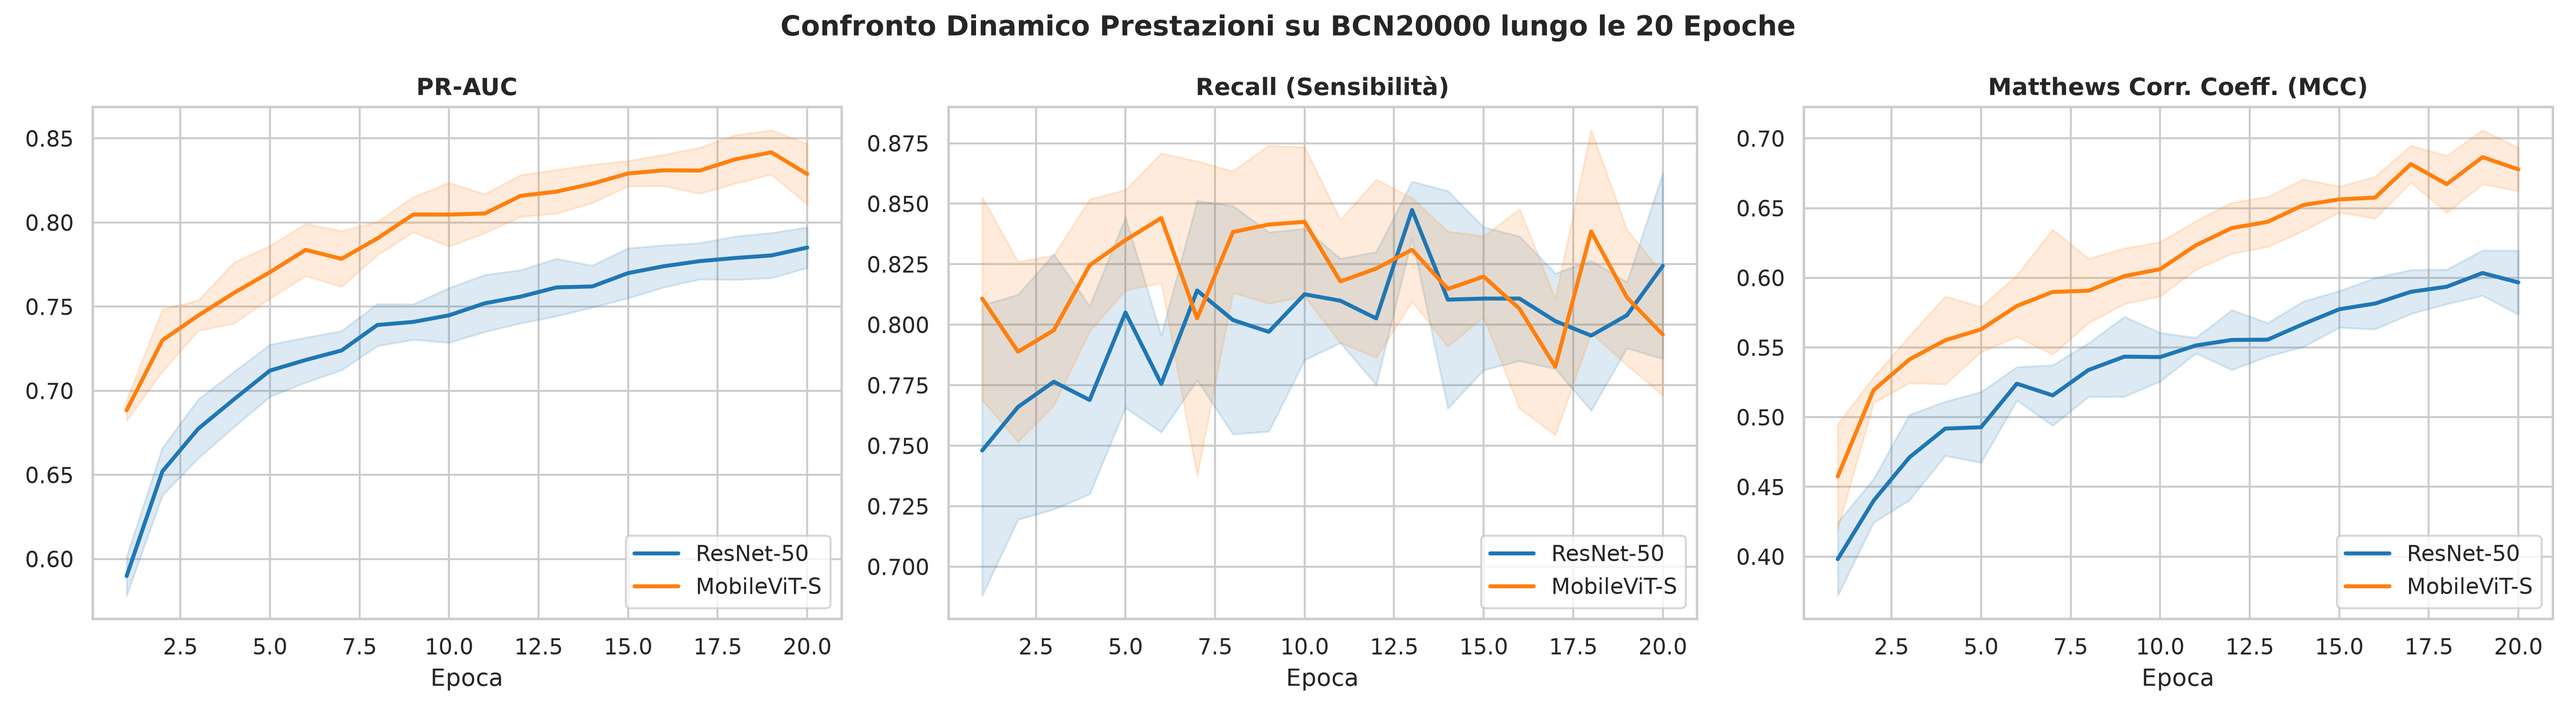
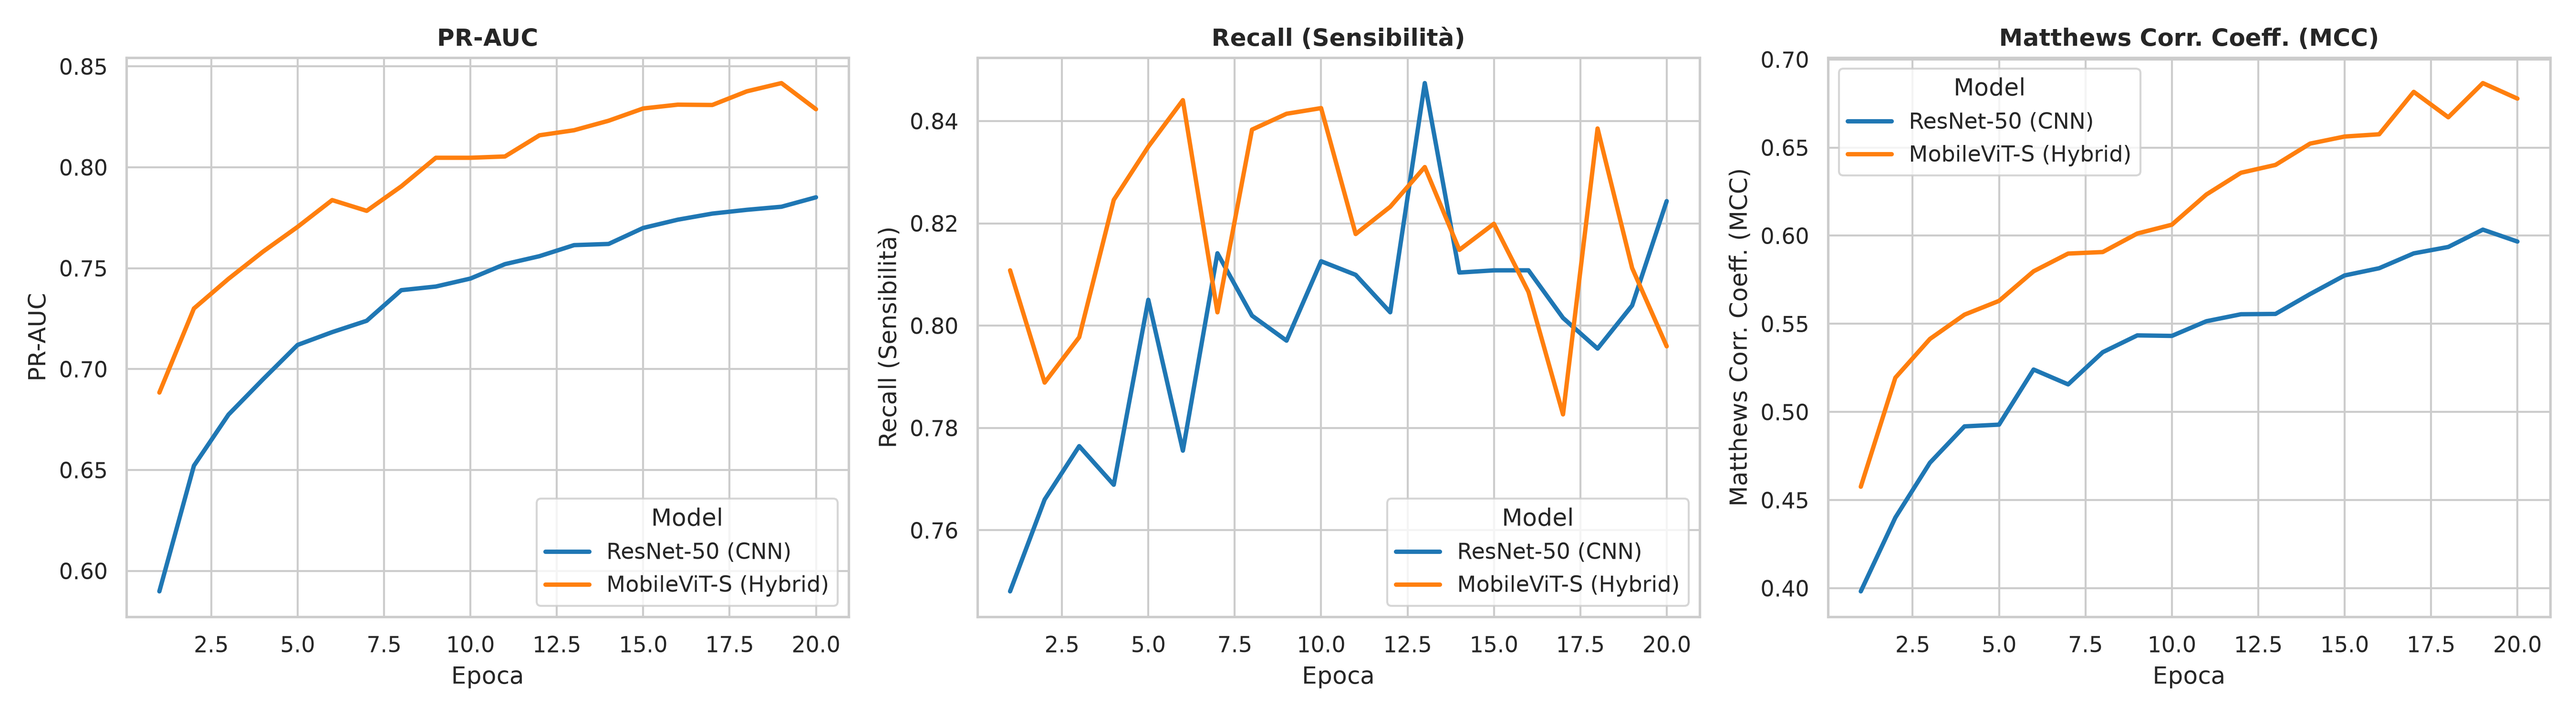
Allineamento salvataggio in figure/ e colori boxplot coerenti

Changed region(s): [[0.0, 0.0, 0.9956, 0.9813]]

diff --git a/plot_bcn_comparison.py b/plot_bcn_comparison.py
@@ -1,9 +1,10 @@
 import os
 import matplotlib.pyplot as plt
+import numpy as np
 import pandas as pd
 import seaborn as sns
 
-# Stile tipografico coerente con tesi magistrale / pubblicazione scientifica
+# Stile tipografico per tesi magistrale
 plt.rcParams.update({
     "font.size": 11,
     "axes.labelsize": 12,
@@ -11,49 +12,52 @@ plt.rcParams.update({
     "xtick.labelsize": 10,
     "ytick.labelsize": 10,
     "legend.fontsize": 10,
-    "figure.titlesize": 15,
+    "figure.titlesize": 14,
 })
 sns.set_theme(style="whitegrid")
 
-# 1. Caricamento dei file CSV estratti da Tesla
+# 1. Caricamento file metriche
 files = {
-    "CNN (ResNet-50)": "outputs/metrics_bcn_cnn.csv",
-    "Hybrid (MobileViT-S)": "outputs/metrics_bcn_hybrid.csv",
+    "ResNet-50 (CNN)": "outputs/metrics_bcn_cnn.csv",
+    "MobileViT-S (Hybrid)": "outputs/metrics_bcn_hybrid.csv",
 }
 
+# Blu per CNN, Arancione per Hybrid
 palette = {
-    "CNN (ResNet-50)": "#4C72B0",  # Blu istituzionale
-    "Hybrid (MobileViT-S)": "#C44E52",  # Rosso carminio / contrasto
+    "ResNet-50 (CNN)": "#1f77b4",
+    "MobileViT-S (Hybrid)": "#ff7f0e",
 }
+model_order = ["ResNet-50 (CNN)", "MobileViT-S (Hybrid)"]
 
 dfs = []
 for model_name, file_path in files.items():
-    if os.path.exists(file_path):
-        df_temp = pd.read_csv(file_path)
-        df_temp["Model"] = model_name
-        dfs.append(df_temp)
-    else:
-        print(f"[ATTENZIONE] File non trovato: {file_path}")
+  if os.path.exists(file_path):
+    df_temp = pd.read_csv(file_path)
+    df_temp["Model"] = model_name
+    dfs.append(df_temp)
+  else:
+    print(f"[ATTENZIONE] File non trovato: {file_path}")
 
 if not dfs:
-    raise FileNotFoundError(
-        "Nessun file CSV trovato. Assicurati di aver fatto 'git pull origin main'."
-    )
+  raise FileNotFoundError(
+      "Nessun file CSV trovato. Verifica il percorso in outputs/"
+  )
 
 df_all = pd.concat(dfs, ignore_index=True)
-os.makedirs("outputs/plots/bcn20000", exist_ok=True)
+out_dir = "figure"
+os.makedirs(out_dir, exist_ok=True)
 
 # -------------------------------------------------------------------------
 # GRAFICO 1: Curve di Loss (Training vs Validation)
 # -------------------------------------------------------------------------
 fig, axes = plt.subplots(1, 2, figsize=(14, 5), sharex=True)
 
-# Training Loss
 sns.lineplot(
     data=df_all,
     x="epoch",
     y="train_loss",
     hue="Model",
+    hue_order=model_order,
     palette=palette,
     ax=axes[0],
     errorbar="sd",
@@ -63,12 +67,12 @@ axes[0].set_title("Training Loss Media (BCN20000 - 5 Fold)")
 axes[0].set_xlabel("Epoca")
 axes[0].set_ylabel("Binary Cross-Entropy Loss")
 
-# Validation Loss
 sns.lineplot(
     data=df_all,
     x="epoch",
     y="val_loss",
     hue="Model",
+    hue_order=model_order,
     palette=palette,
     ax=axes[1],
     errorbar="sd",
@@ -79,58 +83,45 @@ axes[1].set_xlabel("Epoca")
 axes[1].set_ylabel("Binary Cross-Entropy Loss")
 
 plt.tight_layout()
-p1 = "outputs/plots/bcn20000/bcn_loss_comparison.png"
+p1 = os.path.join(out_dir, "bcn_loss_comparison.png")
 plt.savefig(p1, dpi=300)
 plt.close()
 print(f"[OK] Salvato: {p1}")
 
 # -------------------------------------------------------------------------
-# GRAFICO 2: Evoluzione Epoca per Epoca di PR-AUC e MCC
+# GRAFICO 2: Evoluzione Epocale di PR-AUC, Recall e MCC
 # -------------------------------------------------------------------------
-fig, axes = plt.subplots(1, 2, figsize=(14, 5), sharex=True)
+fig, axes = plt.subplots(1, 3, figsize=(18, 5), sharex=True)
+metrics_prog = [
+    ("pr_auc", "PR-AUC"),
+    ("recall", "Recall (Sensibilità)"),
+    ("mcc", "Matthews Corr. Coeff. (MCC)"),
+]
 
-# PR-AUC
-sns.lineplot(
-    data=df_all,
-    x="epoch",
-    y="pr_auc",
-    hue="Model",
-    palette=palette,
-    ax=axes[0],
-    errorbar=None,
-    linewidth=2.2,
-    marker="o",
-    markersize=4,
-)
-axes[0].set_title("Progressione PR-AUC (Precision-Recall AUC)")
-axes[0].set_xlabel("Epoca")
-axes[0].set_ylabel("PR-AUC")
-
-# MCC
-sns.lineplot(
-    data=df_all,
-    x="epoch",
-    y="mcc",
-    hue="Model",
-    palette=palette,
-    ax=axes[1],
-    errorbar=None,
-    linewidth=2.2,
-    marker="s",
-    markersize=4,
-)
-axes[1].set_title("Progressione Matthews Correlation Coefficient (MCC)")
-axes[1].set_xlabel("Epoca")
-axes[1].set_ylabel("MCC")
+for idx, (col, title) in enumerate(metrics_prog):
+  sns.lineplot(
+      data=df_all,
+      x="epoch",
+      y=col,
+      hue="Model",
+      hue_order=model_order,
+      palette=palette,
+      ax=axes[idx],
+      errorbar=None,
+      linewidth=2.2,
+  )
+  axes[idx].set_title(title, fontweight="bold")
+  axes[idx].set_xlabel("Epoca")
+  axes[idx].set_ylabel(title)
 
 plt.tight_layout()
-p2 = "outputs/plots/bcn20000/bcn_metrics_progression.png"
+p2 = os.path.join(out_dir, "bcn_metrics_progression.png")
 plt.savefig(p2, dpi=300)
 plt.close()
 print(f"[OK] Salvato: {p2}")
 
 # -------------------------------------------------------------------------
-# GRAFICO 3: Boxplot di Distribuzione delle Migliori Prestazioni sui Fold
+# GRAFICO 3: Boxplot sui 5 Fold (ResNet-50 Blu a Sx, MobileViT Arancione a Dx)
 # -------------------------------------------------------------------------
 best_per_fold = (
     df_all.sort_values(by=["Model", "fold", "pr_auc"], ascending=False)
@@ -139,95 +130,133 @@ best_per_fold = (
     .reset_index()
 )
 
-fig, axes = plt.subplots(1, 3, figsize=(16, 5))
-metrics_to_plot = [("pr_auc", "PR-AUC"), ("recall", "Recall"), ("mcc", "MCC")]
+fig, axes = plt.subplots(1, 3, figsize=(15, 5))
+metrics_to_plot = [
+    ("pr_auc", "PR-AUC"),
+    ("recall", "Recall (Sensibilità)"),
+    ("mcc", "Matthews Corr. Coeff. (MCC)"),
+]
 
 for ax, (col, title) in zip(axes, metrics_to_plot):
-    sns.boxplot(
-        data=best_per_fold,
-        x="Model",
-        y=col,
-        palette=palette,
-        ax=ax,
-        width=0.4,
-        showmeans=True,
-        meanprops={
-            "marker": "D",
-            "markerfacecolor": "white",
-            "markeredgecolor": "black",
-            "markersize": 6,
-        },
-    )
-    sns.stripplot(
-        data=best_per_fold,
-        x="Model",
-        y=col,
-        color="black",
-        alpha=0.6,
-        jitter=0.15,
-        size=7,
-        ax=ax,
-    )
-    ax.set_title(f"Distribuzione {title} sui Fold")
-    ax.set_xlabel("")
-    ax.set_ylabel(title)
+  sns.boxplot(
+      data=best_per_fold,
+      x="Model",
+      y=col,
+      order=model_order,
+      palette=palette,
+      ax=ax,
+      width=0.4,
+      showmeans=True,
+      meanprops={
+          "marker": "D",
+          "markerfacecolor": "white",
+          "markeredgecolor": "black",
+          "markersize": 6,
+      },
+  )
+  sns.stripplot(
+      data=best_per_fold,
+      x="Model",
+      y=col,
+      order=model_order,
+      color="black",
+      alpha=0.6,
+      jitter=0.15,
+      size=7,
+      ax=ax,
+  )
+  ax.set_title(f"Distribuzione {title}", fontweight="bold")
+  ax.set_xlabel("")
+  ax.set_ylabel(title)
 
+plt.suptitle(
+    "Variabilità e Robustezza sui 5 Fold (Migliori Pesi)",
+    fontsize=14,
+    fontweight="bold",
+)
 plt.tight_layout()
-p3 = "outputs/plots/bcn20000/bcn_boxplot_comparison.png"
+p3 = os.path.join(out_dir, "bcn_boxplot_comparison.png")
 plt.savefig(p3, dpi=300)
 plt.close()
 print(f"[OK] Salvato: {p3}")
 
 # -------------------------------------------------------------------------
-# GRAFICO 4: Sintesi a Barre delle Medie Globali
+# GRAFICO 4: Sintesi a Barre Globali con Barre di Errore
 # -------------------------------------------------------------------------
 summary = (
     best_per_fold.groupby("Model")[["pr_auc", "recall", "mcc"]]
-    .mean()
-    .reset_index()
-)
-summary_melted = pd.melt(
-    summary,
-    id_vars=["Model"],
-    value_vars=["pr_auc", "recall", "mcc"],
-    var_name="Metrica",
-    value_name="Punteggio",
-)
-summary_melted["Metrica"] = summary_melted["Metrica"].replace(
-    {"pr_auc": "PR-AUC", "recall": "Sensibilità (Recall)", "mcc": "MCC"}
+    .agg(["mean", "std"])
+    .reindex(model_order)
 )
 
-plt.figure(figsize=(9, 5))
-bar_plot = sns.barplot(
-    data=summary_melted,
-    x="Metrica",
-    y="Punteggio",
-    hue="Model",
-    palette=palette,
+labels = ["PR-AUC", "Recall", "MCC"]
+x = np.arange(len(labels))
+width = 0.35
+
+plt.figure(figsize=(9, 5.5))
+cnn_means = [
+    summary.loc["ResNet-50 (CNN)", (m, "mean")]
+    for m in ["pr_auc", "recall", "mcc"]
+]
+cnn_stds = [
+    summary.loc["ResNet-50 (CNN)", (m, "std")]
+    for m in ["pr_auc", "recall", "mcc"]
+]
+hyb_means = [
+    summary.loc["MobileViT-S (Hybrid)", (m, "mean")]
+    for m in ["pr_auc", "recall", "mcc"]
+]
+hyb_stds = [
+    summary.loc["MobileViT-S (Hybrid)", (m, "std")]
+    for m in ["pr_auc", "recall", "mcc"]
+]
+
+r1 = plt.bar(
+    x - width / 2,
+    cnn_means,
+    width,
+    yerr=cnn_stds,
+    capsize=5,
+    label="ResNet-50 (CNN)",
+    color="#1f77b4",
+    alpha=0.9,
 )
-plt.title("Confronto Complessivo BCN20000: CNN vs CNN+ViT (MobileViT-S)")
+r2 = plt.bar(
+    x + width / 2,
+    hyb_means,
+    width,
+    yerr=hyb_stds,
+    capsize=5,
+    label="MobileViT-S (Hybrid)",
+    color="#ff7f0e",
+    alpha=0.9,
+)
+
 plt.ylabel("Punteggio Medio")
+plt.title(
+    "Benchmark Finale BCN20000: ResNet-50 vs MobileViT-S (5 Fold CV)",
+    fontweight="bold",
+)
+plt.xticks(x, labels, fontweight="bold")
 plt.ylim(0, 1.05)
-plt.legend(title="Architettura", loc="upper right")
+plt.legend(frameon=True)
 
-# Etichette numeriche sopra le barre
-for p in bar_plot.patches:
-    h = p.get_height()
-    if h > 0:
-        bar_plot.annotate(
-            f"{h:.4f}",
-            (p.get_x() + p.get_width() / 2.0, h),
-            ha="center",
-            va="bottom",
-            fontsize=9,
-            xytext=(0, 4),
-            textcoords="offset points",
-        )
+for rect in list(r1) + list(r2):
+  h = rect.get_height()
+  plt.text(
+      rect.get_x() + rect.get_width() / 2.0,
+      h + 0.02,
+      f"{h:.3f}",
+      ha="center",
+      va="bottom",
+      fontsize=9,
+      fontweight="bold",
+  )
 
 plt.tight_layout()
-p4 = "outputs/plots/bcn20000/bcn_global_barchart.png"
+p4 = os.path.join(out_dir, "bcn_global_barchart.png")
 plt.savefig(p4, dpi=300)
 plt.close()
 print(f"[OK] Salvato: {p4}")
 
-print("\nGenerazione completata con successo nella cartella: outputs/plots/bcn20000/")
+print(f"\n[SUCCESSO] Tutti i 4 plot salvati correttamente in {out_dir}/")
